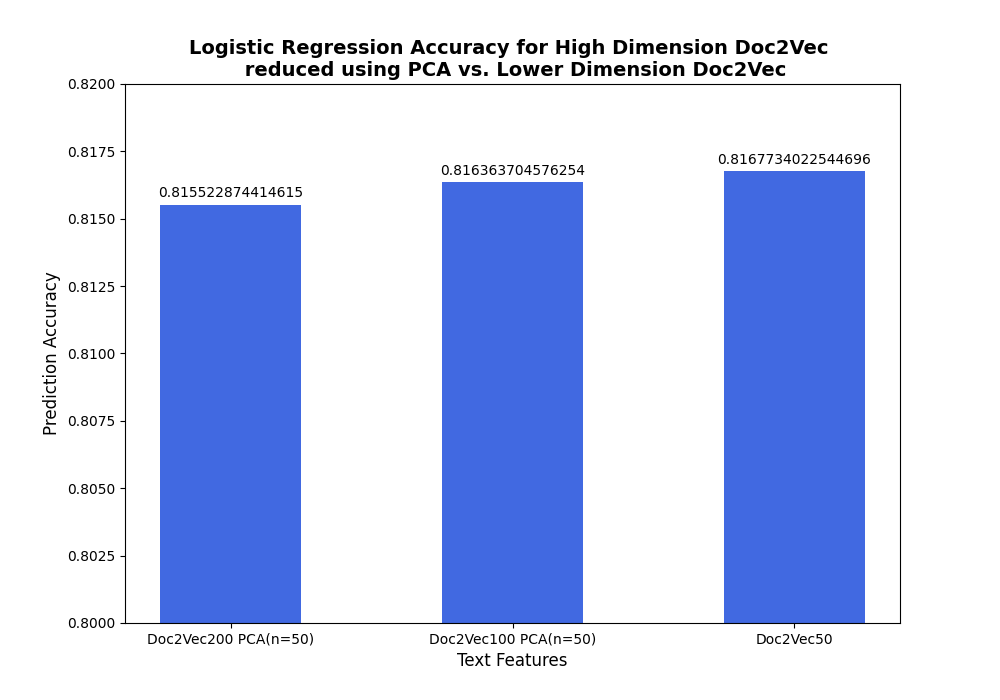
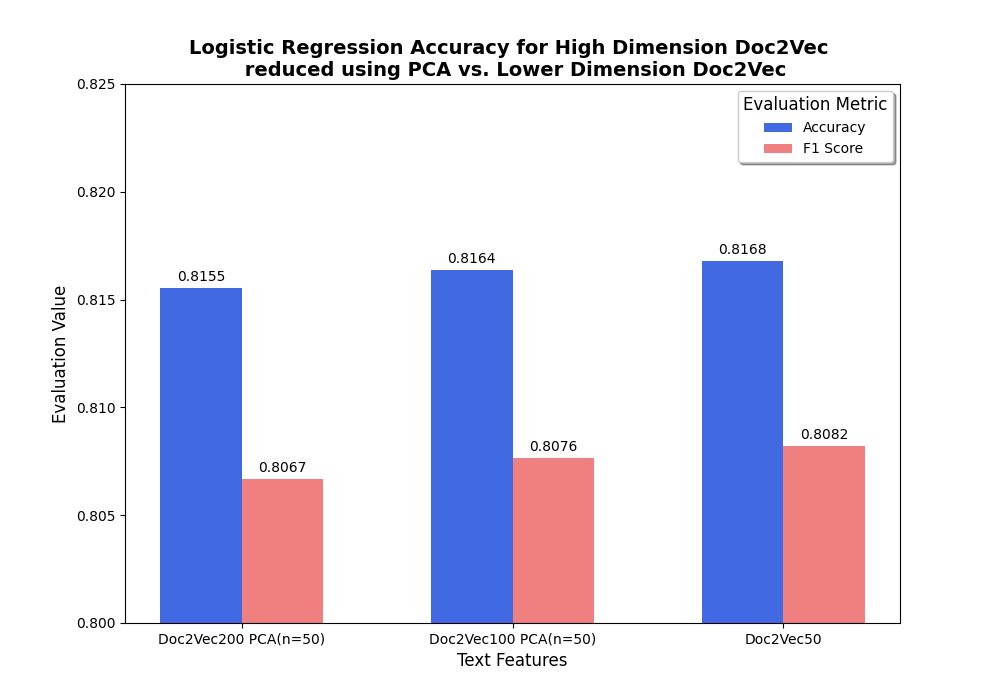
Experimented with Feature Reduction for CountVec, D2V with Logisitic Regression

diff --git a/ass2/LR.py b/ass2/LR.py
@@ -5,7 +5,13 @@ from sklearn.decomposition import PCA
 from sklearn.decomposition import TruncatedSVD
 from sklearn.model_selection import cross_val_score
 from sklearn.model_selection import StratifiedKFold
+from sklearn.metrics import f1_score
+from sklearn.feature_selection import SelectKBest
+from sklearn.feature_selection import chi2
+import seaborn as sns
+
 plt.rcParams['figure.figsize'] = [10, 7]
+
 import numpy as np
 import scipy
 import pandas as pd
@@ -17,7 +23,7 @@ CV = 10
 train = pd.read_csv(r"./datasets/review_meta_train.csv")
 test = pd.read_csv(r"./datasets/review_meta_test.csv")
 
-#Label indices
+# Label indices
 low_rating = train.loc[train['rating'] == 1].index
 med_rating = train.loc[train['rating'] == 3].index
 high_rating = train.loc[train['rating'] == 5].index
@@ -26,17 +32,21 @@ high_rating = train.loc[train['rating'] == 5].index
 vocab = pickle.load(open("./datasets/review_text_features_countvec/train_countvectorizer.pkl", "rb"))
 vocab_dict = vocab.vocabulary_
 count_vec = scipy.sparse.load_npz('./datasets/review_text_features_countvec/review_text_train_vec.npz')
+feature_names = list(vocab.get_feature_names())
 
 # doc2vec50
-d2v50 = pd.read_csv(r"./datasets/review_text_features_doc2vec50/review_text_train_doc2vec50.csv", index_col=False, delimiter=',', header=None)
+d2v50 = pd.read_csv(r"./datasets/review_text_features_doc2vec50/review_text_train_doc2vec50.csv", index_col=False,
+                    delimiter=',', header=None)
 # print(d2v50.head(10))
 
 # doc2vec100
-d2v100 = pd.read_csv(r"./datasets/review_text_features_doc2vec100/review_text_train_doc2vec100.csv", index_col=False, delimiter=',', header=None)
+d2v100 = pd.read_csv(r"./datasets/review_text_features_doc2vec100/review_text_train_doc2vec100.csv", index_col=False,
+                     delimiter=',', header=None)
 # print(d2v100.head(10))
 
 # doc2vec200
-d2v200 = pd.read_csv(r"./datasets/review_text_features_doc2vec200/review_text_train_doc2vec200.csv", index_col=False, delimiter=',', header=None)
+d2v200 = pd.read_csv(r"./datasets/review_text_features_doc2vec200/review_text_train_doc2vec200.csv", index_col=False,
+                     delimiter=',', header=None)
 # print(d2v200.head(10))
 
 datasets_dict = {"Count Vectoriser": count_vec, "Doc2Vec50": d2v50, "Doc2Vec100": d2v100, "Doc2Vec200": d2v200}
@@ -48,9 +58,12 @@ x_train = train.drop(['rating', 'date', 'review_id', 'reviewer_id', 'business_id
 # Asking: Do higher dimensionality Doc2Vec text features perform better when reduced to the same dimensionality
 # of smaller Doc2Vec features?
 #
-# avg_200 = []
-# avg_100 = []
-# avg_50 = []
+# avg_200_acc = []
+# avg_200_f1 = []
+# avg_100_acc = []
+# avg_100_f1 = []
+# avg_50_acc = []
+# avg_50_f1 = []
 #
 # #Run across multiple random states
 # for ran_state in range(10):
@@ -59,68 +72,288 @@ x_train = train.drop(['rating', 'date', 'review_id', 'reviewer_id', 'business_id
 #     kf = StratifiedKFold(n_splits=CV, shuffle=True, random_state=ran_state)
 #     pca = PCA(n_components=50, random_state=ran_state)
 #     lgr = LogisticRegression()
-#     #np.logspace(-4, 4, 4) for C
-#     scores_200 = []
+#
+#     acc_200 = []
+#     f1_200 = []
 #     for train, test in kf.split(d2v200, y_train):
 #         d2v200_reduced = pca.fit_transform(d2v200.loc[train])
 #         lgr.fit(d2v200_reduced, y_train.loc[train])
 #         test_reduced = pca.transform(d2v200.loc[test])
-#         scores_200.append(lgr.score(test_reduced, y_train.loc[test]))
-#     avg_200.append(np.average(scores_200))
-#     # print(f"Average Accuracy for Logistic Regression with Cross Validation (10), PCA(50) for Doc2Vec200: {np.average(scores_200)}")
+#         predicted = lgr.predict(test_reduced)
+#         acc_200.append(lgr.score(test_reduced, y_train.loc[test]))
+#         f1_200.append(f1_score(y_train.loc[test], predicted, average='weighted'))
+#     avg_200_acc.append(np.average(acc_200))
+#     avg_200_f1.append(np.average(f1_200))
 #
 #     ### Doc2Vec100 with PCA = 50
-#     scores_100 = []
+#     acc_100 = []
+#     f1_100 = []
 #     for train, test in kf.split(d2v100, y_train):
 #         d2v100_reduced = pca.fit_transform(d2v100.loc[train])
 #         lgr.fit(d2v100_reduced, y_train.loc[train])
 #         test_reduced = pca.transform(d2v100.loc[test])
-#         scores_100.append(lgr.score(test_reduced, y_train.loc[test]))
-#     avg_100.append(np.average(scores_100))
-#     # print(f"Average Accuracy for Logistic Regression with Cross Validation (10), PCA(50) for Doc2Vec200: {np.average(scores_200)}")
+#         predicted = lgr.predict(test_reduced)
+#         acc_100.append(lgr.score(test_reduced, y_train.loc[test]))
+#         f1_100.append(f1_score(y_train.loc[test], predicted, average='weighted'))
+#     avg_100_acc.append(np.average(acc_100))
+#     avg_100_f1.append(np.average(f1_100))
 #
 #     ## Doc2Vec50 no PCA
-#     scores_50 = []
+#     acc_50 = []
+#     f1_50 = []
 #     for train, test in kf.split(d2v50, y_train):
 #         lgr.fit(d2v50.loc[train], y_train.loc[train])
-#         scores_50.append(lgr.score(d2v50.loc[test], y_train.loc[test]))
-#     avg_50.append(np.average(scores_50))
+#         acc_50.append(lgr.score(d2v50.loc[test], y_train.loc[test]))
+#         predicted = lgr.predict(d2v50.loc[test])
+#         f1_50.append(f1_score(y_train.loc[test], predicted, average='weighted'))
+#     avg_50_acc.append(np.average(acc_50))
+#     avg_50_f1.append(np.average(f1_50))
 #
 # # print(f"Average Accuracy for Logistic Regression with Cross Validation (10), PCA(50) for Doc2Vec200: {np.average(avg_200)}")
 # # print(f"Average Accuracy for Logistic Regression with Cross Validation (10), PCA(50) for Doc2Vec100: {np.average(avg_100)}")
 # # print(f"Average Accuracy for Logistic Regression with Cross Validation (10) for Doc2Vec50: {np.average(avg_50)}")
 #
-# lgr_results = np.array((np.average(avg_200), np.average(avg_100), np.average(avg_50)))
-# np.save('./results/lgr_for_pca50_vs_d2v50.npy', lgr_results)
+# results_acc = np.array((np.average(avg_200_acc), np.average(avg_100_acc), np.average(avg_50_acc)))
+# results_f1 = np.array((np.average(avg_200_f1), np.average(avg_100_f1), np.average(avg_50_f1)))
+# np.save('./results/lgr_for_pca50_vs_d2v50_acc.npy', results_acc)
+# np.save('./results/lgr_for_pca50_vs_d2v50_f1.npy', results_f1)
+
+
+# ------------- Graph for above
+# Can simply load to produce graph
+# results_acc = np.load('./results/lgr_for_pca50_vs_d2v50_acc.npy')
+# results_f1 = np.load('./results/lgr_for_pca50_vs_d2v50_f1.npy')
+# plt.rcParams['figure.figsize'] = [10, 7]
+# X = np.arange(3)
+# ind = X + 0.15
+# # fig = plt.figure()
+# # ax = fig.add_axes([0, 0, 1, 1])
+# plt.ylim(0.8, 0.825)
+# bars = plt.bar(X + 0.00, results_acc, color = 'royalblue', width=0.3)
+# bars2 = plt.bar(X + 0.3, results_f1, color = 'lightcoral', width=0.3)
+#
+# def autolabel(rects):
+#     """Attach a text label above each bar in *rects*, displaying its height."""
+#     for rect in rects:
+#         height = rect.get_height()
+#         plt.annotate('{:.4f}'.format(height),
+#                     xy=(rect.get_x() + rect.get_width() / 2, height),
+#                     xytext=(0, 3),  # 3 points vertical offset
+#                     textcoords="offset points",
+#                     ha='center', va='bottom')
+#
+# autolabel(bars)
+# autolabel(bars2)
+# plt.ylabel('Evaluation Value', size=12)
+# plt.xlabel('Text Features', size=12)
+# plt.title('Logistic Regression Accuracy for High Dimension Doc2Vec \n reduced using PCA vs. Lower Dimension Doc2Vec', weight='bold',size=14)
+# plt.xticks(ind, ('Doc2Vec200 PCA(n=50)',
+#                  'Doc2Vec100 PCA(n=50)',
+#                  'Doc2Vec50'), size=10)
+# plt.legend(('Accuracy', 'F1 Score'), shadow=True, title="Evaluation Metric", title_fontsize=12)
+# plt.show()
+
+# ----- Varying C parameter of logistic Regression
+#
+# kf = StratifiedKFold(n_splits=CV, shuffle=True, random_state=RANDOM_STATE)
+# c_acc = []
+# c_f1_scores = []
+# for c in np.logspace(-4, 4, 30):
+#     lgr = LogisticRegression(C=c)
+#     acc_50 = []
+#     f1_scores_50 = []
+#     for train, test in kf.split(d2v50, y_train):
+#         lgr.fit(d2v50.loc[train], y_train.loc[train])
+#         acc_50.append(lgr.score(d2v50.loc[test], y_train.loc[test]))
+#         predicted = lgr.predict(d2v50.loc[test])
+#         f1_scores_50.append(f1_score(y_train.loc[test], predicted, average='weighted'))
+#     c_acc.append(np.average(acc_50))
+#     c_f1_scores.append(np.average(f1_scores_50))
+#
+#
+# c_results_acc = np.array(c_acc)
+# c_results_f1 = np.array(c_f1_scores)
+# np.save('./results/lgr_for_d2v50_vs_C_acc.npy', c_results_acc)
+# np.save('./results/lgr_for_d2v50_vs_C_f1.npy', c_results_f1)
+#
+# # Can simply load to produce graph
+# c_results_acc = np.load('./results/lgr_for_d2v50_vs_C_acc.npy')
+# c_results_f1 = np.load('./results/lgr_for_d2v50_vs_C_f1.npy')
+# plt.rcParams['figure.figsize'] = [10, 7]
+# plt.xscale('log')
+# plt.ylim(0.5, 1)
+# plt.plot(np.logspace(-4, 4, 30), c_results_acc, 'bo', linestyle='-', label="Accuracy")
+# plt.plot(np.logspace(-4, 4, 30), c_results_f1, 'ro', linestyle='-', label="F1 Score")
+# plt.legend(loc='upper left', shadow=True, title="Evaluation Metric", title_fontsize=12)
+# plt.xlabel("C Value", size=12)
+# plt.ylabel("Evaluation Value", size=12)
+# plt.title("Logistic Regression Accuracy for Doc2Vec50 vs. C Hyperparameter", weight="bold", size=14)
+# plt.show()
+
+
+# ------- Selecting K-best CountVec features and adding them to Doc2vec50
+# First with no count_vec attributes
+# kf = StratifiedKFold(n_splits=CV, shuffle=True, random_state=RANDOM_STATE)
+# lgr = LogisticRegression(max_iter=200)
+# avg_acc = []
+# avg_f1 = []
+# acc = []
+# f1_scores = []
+# for train, test in kf.split(d2v50, y_train):
+#     lgr.fit(d2v50.loc[train], y_train.loc[train])
+#     acc.append(lgr.score(d2v50.loc[test], y_train.loc[test]))
+#     predicted = lgr.predict(d2v50.loc[test])
+#     f1_scores.append(f1_score(y_train.loc[test], predicted, average='weighted'))
+# avg_acc.append(np.average(acc))
+# avg_f1.append(np.average(f1_scores))
+#
+# # Now all best features from 1 to 30
+# K = 30
+# for k in range(1, K):
+#     # Have to regen all best features each time, as the ordering of cols is not the
+#     # same (even though the first k-1 features will be)
+#     d2v50_copy = d2v50.copy()
+#     acc = []
+#     f1_scores = []
+#     kbest = SelectKBest(chi2, k=k)
+#     count_vec_best = kbest.fit_transform(count_vec, y_train)
+#     cols = kbest.get_support(indices=True)
+#     i = 0
+#     for col in cols:
+#         d2v50_copy[feature_names[cols[i]]] = pd.arrays.SparseArray(count_vec_best[:, i].toarray().ravel(), fill_value=0)
+#         i += 1
+#     for train, test in kf.split(d2v50_copy, y_train):
+#         lgr.fit(d2v50_copy.loc[train], y_train.loc[train])
+#         acc.append(lgr.score(d2v50_copy.loc[test], y_train.loc[test]))
+#         predicted = lgr.predict(d2v50_copy.loc[test])
+#         f1_scores.append(f1_score(y_train.loc[test], predicted, average='weighted'))
+#     avg_acc.append(np.average(acc))
+#     avg_f1.append(np.average(f1_scores))
+# kbest_results_acc = np.array(avg_acc)
+# kbest_results_f1 = np.array(avg_f1)
+# np.save('./results/lgr_for_d2v50_vs_kbest_acc.npy', kbest_results_acc)
+# np.save('./results/lgr_for_d2v50_vs_kbest_f1.npy', kbest_results_f1)
 
 # Can simply load to produce graph
-lgr_results = np.load('./results/lgr_for_pca50_vs_d2v50.npy')
+kb_results_acc = np.load('./results/lgr_for_d2v50_vs_kbest_acc.npy')
+kb_results_f1 = np.load('./results/lgr_for_d2v50_vs_kbest_f1.npy')
 plt.rcParams['figure.figsize'] = [10, 7]
-X = np.arange(3)
-ind = X
-# fig = plt.figure()
-# ax = fig.add_axes([0, 0, 1, 1])
-plt.ylim(0.8, 0.82)
-bars = plt.bar(X + 0.00, lgr_results, color = 'royalblue', width=0.5)
-
-def autolabel(rects):
-    """Attach a text label above each bar in *rects*, displaying its height."""
-    for rect in rects:
-        height = rect.get_height()
-        plt.annotate('{}'.format(height),
-                    xy=(rect.get_x() + rect.get_width() / 2, height),
-                    xytext=(0, 3),  # 3 points vertical offset
-                    textcoords="offset points",
-                    ha='center', va='bottom')
-
-
-autolabel(bars)
-
-
-plt.ylabel('Prediction Accuracy', size=12)
-plt.xlabel('Text Features', size=12)
-plt.title('Logistic Regression Accuracy for High Dimension Doc2Vec \n reduced using PCA vs. Lower Dimension Doc2Vec', weight='bold',size=14)
-plt.xticks(ind, ('Doc2Vec200 PCA(n=50)',
-                 'Doc2Vec100 PCA(n=50)',
-                 'Doc2Vec50'), size=10)
+plt.ylim(0.5, 1)
+plt.plot(range(0, 30), kb_results_acc, 'bo', linestyle='-', label="Accuracy")
+plt.plot(range(0, 30), kb_results_f1, 'ro', linestyle='-', label="F1 Score")
+plt.legend(loc='upper left', shadow=True, title="Evaluation Metric", title_fontsize=12)
+plt.xlabel("Number of K-best Count Vec Features Included", size=12)
+plt.ylabel("Evaluation Value", size=12)
+plt.title("Logistic Regression Accuracy for Doc2Vec50 vs. \n Number of included K-best CountVectorizer Features", weight="bold", size=14)
 plt.show()
+
+
+# ------- Simply finding the top K best words by Chi2
+# k=20
+# cols=set()
+# top_names = []
+# occurences = []
+# for i in range(1, k+1):
+#     kbest = SelectKBest(chi2, k=i)
+#     count_vec_best = kbest.fit_transform(count_vec, y_train)
+#     cols_curr = set(kbest.get_support(indices=True))
+#     new_idx = list(cols_curr-cols).pop()
+#     top_names.append(feature_names[new_idx])
+#     occurences.append(np.sum(count_vec[:, new_idx].toarray().ravel()))
+#     cols = cols_curr
+#
+# plt.rcParams['figure.figsize'] = [10, 7]
+# X = np.arange(k)
+# ind = X
+# plt.subplot(2, 1, 1)
+# bars = plt.bar(X, occurences, color=sns.color_palette("GnBu_d", k), width=0.50)
+# print(len(kbest.scores_))
+# print(count_vec_best.shape)
+# def autolabel(rects):
+#     """Attach a text label above each bar in *rects*, displaying its height."""
+#     for rect in rects:
+#         height = rect.get_height()
+#         plt.annotate('{:.0f}'.format(height),
+#                     xy=(rect.get_x() + rect.get_width() / 2, height),
+#                     xytext=(0, 3),  # 3 points vertical offset
+#                     textcoords="offset points",
+#                     ha='center', va='bottom')
+#
+# autolabel(bars)
+# plt.ylabel('Occurences', size=12)
+# plt.ylim(0, 18500)
+# plt.tick_params(
+#     axis='x',          # changes apply to the x-axis
+#     which='both',      # both major and minor ticks are affected
+#     bottom=False,      # ticks along the bottom edge are off
+#     top=False,         # ticks along the top edge are off
+#     labelbottom=False)
+# plt.title(f'Occurences of top {k} CountVectoriser Words Ordered by Chi^2 Score \n', weight='bold', size=14)
+# # plt.xticks(ind, top_names, rotation=70, size=10)
+#
+#
+# plt.rcParams['figure.figsize'] = [10, 7]
+# X = np.arange(k)
+# ind = X
+# plt.subplot(2, 1, 2)
+# bars = plt.bar(X, sorted(list(kbest.scores_), reverse=True)[0:k], color=sns.color_palette("GnBu_d", k), width=0.50)
+# def autolabel(rects):
+#     """Attach a text label above each bar in *rects*, displaying its height."""
+#     for rect in rects:
+#         height = rect.get_height()
+#         plt.annotate('{:.0f}'.format(height),
+#                     xy=(rect.get_x() + rect.get_width() / 2, height),
+#                     xytext=(0, 3),  # 3 points vertical offset
+#                     textcoords="offset points",
+#                     ha='center', va='bottom')
+#
+# autolabel(bars)
+# plt.ylabel('Chi^2 Score', size=12)
+# plt.xlabel('Word', size=12)
+# plt.ylim(0, 2750)
+# plt.xticks(ind, top_names, rotation=70, size=10)
+# plt.tight_layout()
+# plt.show()
+
+
+# ----- Logisitc Regression with CountVec Kbest (No Doc2Vec)
+# kf = StratifiedKFold(n_splits=CV, shuffle=True, random_state=RANDOM_STATE)
+# lgr = LogisticRegression(max_iter=200)
+# avg_acc = []
+# avg_f1 = []
+# acc = []
+# f1_scores = []
+# # Now all best features from 1 to 30
+# K = 100
+# for k in range(1, K+1):
+#     # Have to regen all best features each time, as the ordering of cols is not the
+#     # same (even though the first k-1 features will be)
+#     acc = []
+#     f1_scores = []
+#     kbest = SelectKBest(chi2, k=k)
+#     count_vec_best = kbest.fit_transform(count_vec, y_train)
+#     df = pd.DataFrame.sparse.from_spmatrix(count_vec_best)
+#     for train, test in kf.split(df, y_train):
+#         lgr.fit(df.loc[train], y_train.loc[train])
+#         acc.append(lgr.score(df.loc[test], y_train.loc[test]))
+#         predicted = lgr.predict(df.loc[test])
+#         f1_scores.append(f1_score(y_train.loc[test], predicted, average='weighted'))
+#     avg_acc.append(np.average(acc))
+#     avg_f1.append(np.average(f1_scores))
+# kbest_results_acc = np.array(avg_acc)
+# kbest_results_f1 = np.array(avg_f1)
+# np.save('./results/lgr_for_countvec_vs_kbest_acc.npy', kbest_results_acc)
+# np.save('./results/lgr_for_countvec_vs_kbest_f1.npy', kbest_results_f1)
+#
+# # Can simply load to produce graph
+# kb_results_acc = np.load('./results/lgr_for_countvec_vs_kbest_acc.npy')
+# kb_results_f1 = np.load('./results/lgr_for_countvec_vs_kbest_f1.npy')
+# plt.rcParams['figure.figsize'] = [10, 7]
+# plt.ylim(0.5, 1)
+# plt.plot(range(0, K), kb_results_acc, 'bo', linestyle='-', label="Accuracy")
+# plt.plot(range(0, K), kb_results_f1, 'ro', linestyle='-', label="F1 Score")
+# plt.legend(loc='upper left', shadow=True, title="Evaluation Metric", title_fontsize=12)
+# plt.xlabel("K-best Features", size=12)
+# plt.ylabel("Evaluation Value", size=12)
+# plt.title("Logistic Regression Accuracy for CountVec vs. \n Number K-best Features", weight="bold", size=14)
+# plt.show()
